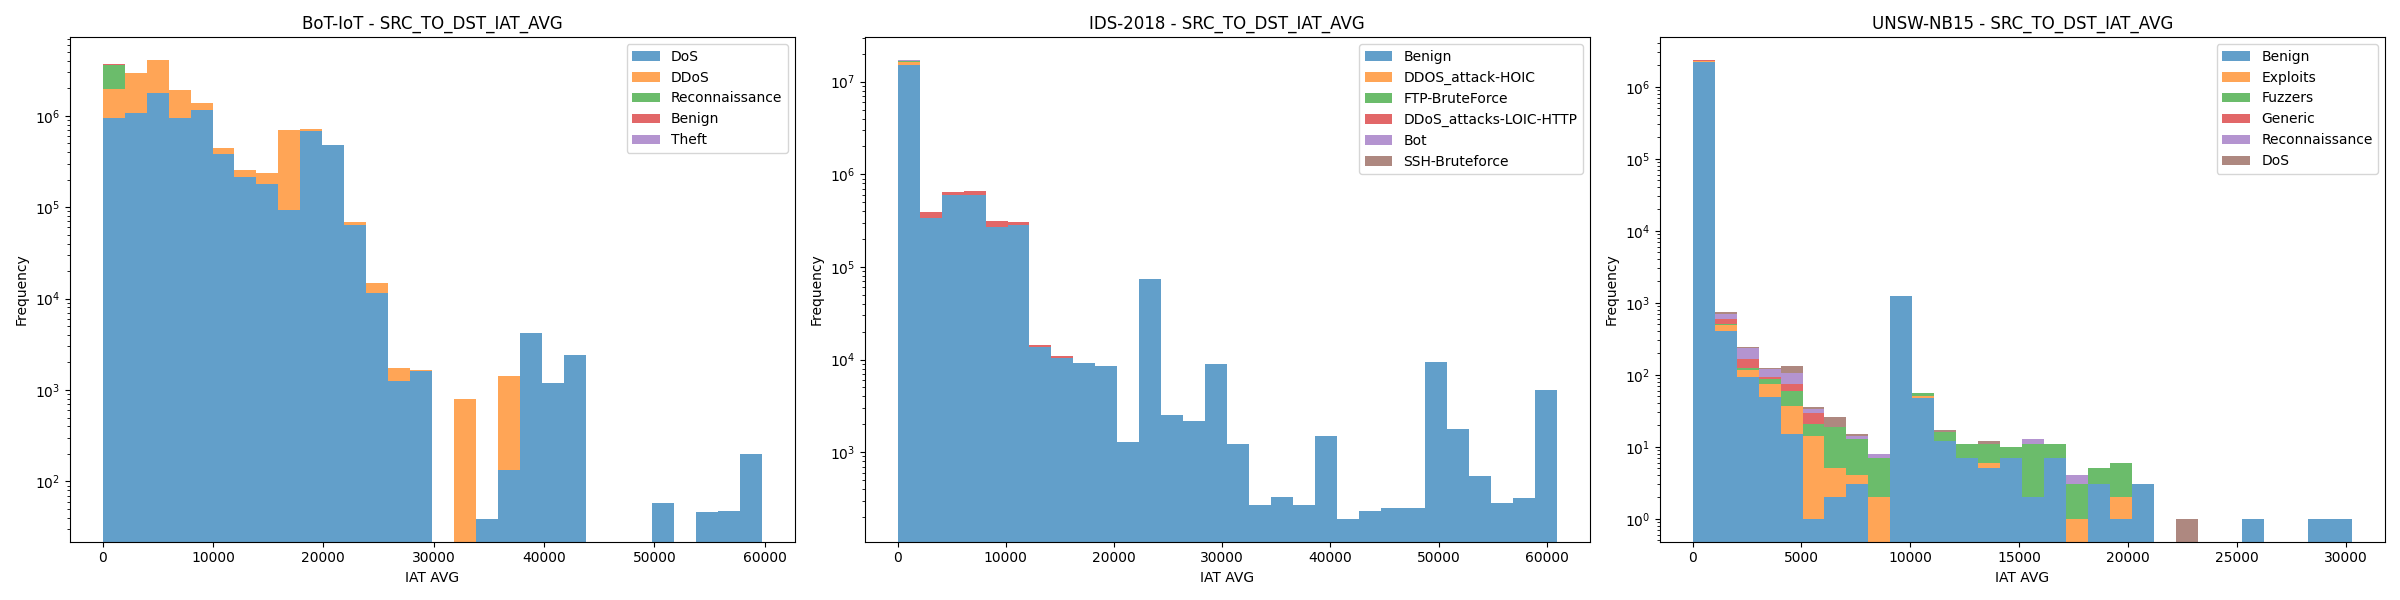
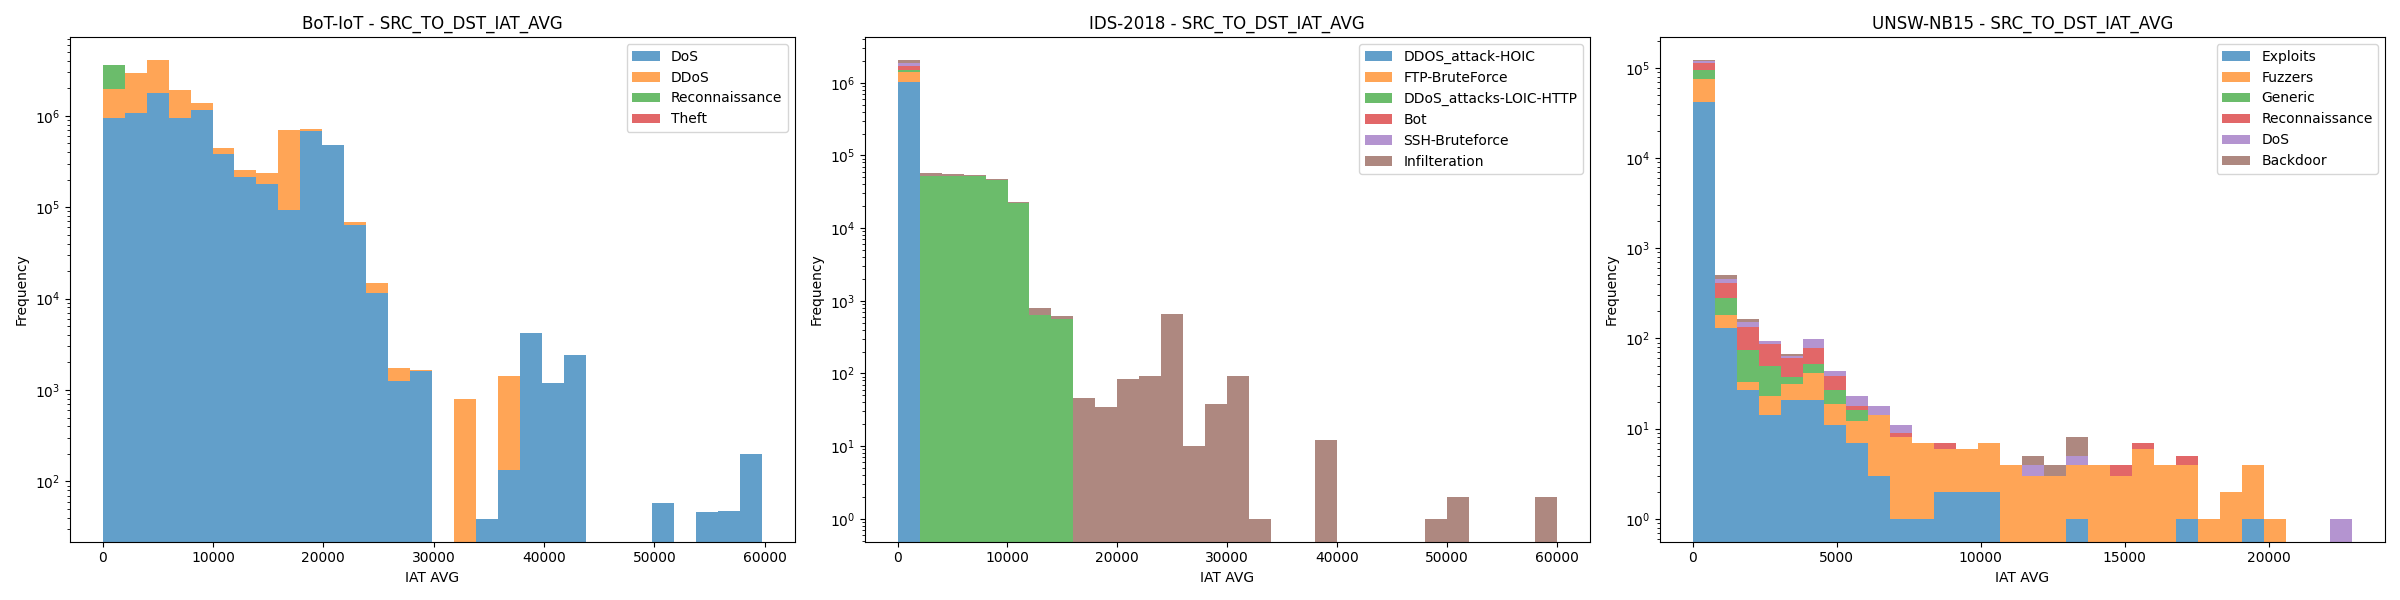
upd

diff --git a/src/eda.py b/src/eda.py
@@ -196,6 +196,50 @@ def visualize_corr_heatmap():
     plt.tight_layout()
     plt.close()
 
+# def visualize_flow_duration_stacked():
+#     """
+#     (1) Flow Duration Stacked Histogram
+#     """
+#     fig, axes = plt.subplots(1, 3, figsize=(24, 6))
+    
+#     for i, name in enumerate(datasets):
+#         print(f"Processing Flow Duration for {name}...")
+#         df = load_dataset(name)
+        
+#         # Calculate Duration in Seconds
+#         # Ensure numeric
+#         start_ms = pd.to_numeric(df['FLOW_START_MILLISECONDS'], errors='coerce')
+#         end_ms = pd.to_numeric(df['FLOW_END_MILLISECONDS'], errors='coerce')
+#         duration_sec = (end_ms - start_ms) / 1000.0
+#         duration_sec = duration_sec.dropna()
+        
+#         # Use top 6 frequent attacks to avoid clutter
+#         top_attacks = df['Attack'].value_counts().nlargest(7).index.tolist()
+#         # remove 'Benign'
+#         if 'Benign' in top_attacks:
+#             top_attacks.remove('Benign')
+        
+#         plot_data = []
+#         labels = []
+#         for atk in top_attacks:
+#             # Filter by attack type and corresponding valid duration indices
+#             subset = duration_sec[df['Attack'] == atk]
+#             if len(subset) > 0:
+#                 plot_data.append(subset)
+#                 labels.append(atk)
+        
+#         axes[i].hist(plot_data, bins=30, stacked=True, label=labels, alpha=0.7)
+#         axes[i].set_title(f'{name} - Flow Duration')
+#         axes[i].set_xlabel('Duration (s)')
+#         axes[i].set_ylabel('Frequency')
+#         axes[i].legend()
+#         # Log scale helps verify short vs long duration visible distribution
+#         axes[i].set_yscale('log') 
+
+#     plt.tight_layout()
+#     plt.savefig('flow_duration_stacked_hist.png')
+#     plt.close()
+
 def visualize_flow_duration_stacked():
     """
     (1) Flow Duration Stacked Histogram
@@ -206,32 +250,30 @@ def visualize_flow_duration_stacked():
         print(f"Processing Flow Duration for {name}...")
         df = load_dataset(name)
         
-        # Calculate Duration in Seconds
-        # Ensure numeric
-        start_ms = pd.to_numeric(df['FLOW_START_MILLISECONDS'], errors='coerce')
-        end_ms = pd.to_numeric(df['FLOW_END_MILLISECONDS'], errors='coerce')
-        duration_sec = (end_ms - start_ms) / 1000.0
-        duration_sec = duration_sec.dropna()
+        # DURATION_IN, DURATION_OUT
+        duration_in_ms = pd.to_numeric(df['DURATION_IN'], errors='coerce').dropna()
+        duration_out_ms = pd.to_numeric(df['DURATION_OUT'], errors='coerce').dropna()
+        # add them
+        duration_data = duration_in_ms.add(duration_out_ms, fill_value=0)
         
-        # Use top 6 frequent attacks to avoid clutter
-        top_attacks = df['Attack'].value_counts().nlargest(6).index.tolist()
+        top_attacks = df['Attack'].value_counts().nlargest(7).index.tolist()
+        if 'Benign' in top_attacks:
+            top_attacks.remove('Benign')
         
         plot_data = []
         labels = []
         for atk in top_attacks:
-            # Filter by attack type and corresponding valid duration indices
-            subset = duration_sec[df['Attack'] == atk]
+            subset = duration_data[df['Attack'] == atk]
             if len(subset) > 0:
                 plot_data.append(subset)
                 labels.append(atk)
         
         axes[i].hist(plot_data, bins=30, stacked=True, label=labels, alpha=0.7)
         axes[i].set_title(f'{name} - Flow Duration')
-        axes[i].set_xlabel('Duration (s)')
+        axes[i].set_xlabel('Duration (ms)')
         axes[i].set_ylabel('Frequency')
         axes[i].legend()
-        # Log scale helps verify short vs long duration visible distribution
-        axes[i].set_yscale('log') 
+        axes[i].set_yscale('log')
 
     plt.tight_layout()
     plt.savefig('flow_duration_stacked_hist.png')
@@ -250,7 +292,9 @@ def visualize_iat_stacked():
         iat_col = 'SRC_TO_DST_IAT_AVG'
         iat_data = pd.to_numeric(df[iat_col], errors='coerce').dropna()
         
-        top_attacks = df['Attack'].value_counts().nlargest(6).index.tolist()
+        top_attacks = df['Attack'].value_counts().nlargest(7).index.tolist()
+        if 'Benign' in top_attacks:
+            top_attacks.remove('Benign')
         
         plot_data = []
         labels = []
@@ -273,43 +317,70 @@ def visualize_iat_stacked():
 
 def visualize_attack_time_series():
     """
-    (3) First 600 mins, Attack Frequency vs Relative Time
+    (3) Attack Frequency vs Relative Time over whole duration
     """
     fig, axes = plt.subplots(1, 3, figsize=(24, 6))
-    
+
     for i, name in enumerate(datasets):
         print(f"Processing Time Series for {name}...")
         df = load_dataset(name)
-        
-        start_ms = pd.to_numeric(df['FLOW_START_MILLISECONDS'], errors='coerce')
+
+        # Explicitly convert to numeric and drop invalid/NaN timestamps
+        start_ms = pd.to_numeric(df['FLOW_START_MILLISECONDS'], errors='coerce').dropna()
+        if start_ms.empty:
+            continue
+
         min_start = start_ms.min()
+        max_start = start_ms.max()
         
+        duration_minutes = (max_start - min_start) / (1000.0 * 60.0)
+        if duration_minutes <= 0:
+            print(f"Warning: Dataset {name} has zero or negative duration.")
+            continue
+
         # Calculate relative time in minutes
+        # Align Attack column with valid start_ms rows
         rel_time_min = (start_ms - min_start) / (1000.0 * 60.0)
-        
-        # Filter first 600 minutes
-        # Create a temp dataframe for processing
+        valid_attacks = df.loc[start_ms.index, 'Attack']
+
+        # Create a temp dataframe
         temp_df = pd.DataFrame({
             'Time_Min': rel_time_min,
-            'Attack': df['Attack']
+            'Attack': valid_attacks
         })
-        temp_df = temp_df[temp_df['Time_Min'] <= 600]
+
+        # Use 100 bins for better resolution
+        num_bins = 100
+        bin_size = duration_minutes / num_bins
         
-        # Binning every 10 minutes
-        temp_df['Time_Bin'] = (temp_df['Time_Min'] // 10) * 10
-        
+        # Calculate integer bin index (0 to num_bins-1)
+        temp_df['Bin_Index'] = (temp_df['Time_Min'] / bin_size).astype(int)
+        # Clip to ensure max value falls into the last bin
+        temp_df['Bin_Index'] = temp_df['Bin_Index'].clip(upper=num_bins - 1)
+
         # Count attacks in each bin
-        # Pivot: Index=Time_Bin, Columns=Attack, Values=Count
-        counts = temp_df.groupby(['Time_Bin', 'Attack']).size().unstack(fill_value=0)
+        # unstack might result in missing bins if no data exists in them
+        counts = temp_df.groupby(['Bin_Index', 'Attack']).size().unstack(fill_value=0)
+
+        # Reindex to ensure we have a continuous time axis (0..99), filling gaps with 0
+        full_idx = range(num_bins)
+        counts = counts.reindex(full_idx, fill_value=0)
+
+        # Map index back to representative time (minutes) for plotting
+        counts.index = [x * bin_size for x in counts.index]
+
+        # Select top attacks to plot lines
+        top_attacks = counts.sum().nlargest(7).index
+        if 'Benign' in top_attacks:
+            top_attacks = top_attacks.drop('Benign')
         
-        # Select top attacks to plot lines, group others? or just plot top N
-        top_attacks = counts.sum().nlargest(6).index
-        counts_top = counts[top_attacks]
+        if not top_attacks.empty:
+            counts_top = counts[top_attacks]
+            counts_top.plot(ax=axes[i], marker='.', markersize=2, linewidth=1)
         
-        counts_top.plot(ax=axes[i], marker='o', markersize=3)
-        axes[i].set_title(f'{name} - Attack Freq (First 600m)')
+        axes[i].set_title(f'{name} - Attack Freq vs Time')
         axes[i].set_xlabel('Time (minutes from start)')
-        axes[i].set_ylabel('Frequency per 10 min')
+        axes[i].set_ylabel('Attack Frequency (per bin)')
         axes[i].legend(title='Attack Type')
         axes[i].grid(True, linestyle='--', alpha=0.5)
 
@@ -323,7 +394,6 @@ if __name__ == '__main__':
     # visualize_histogram()
     # visualize_corr_heatmap()
     
-    # New visualizations
     visualize_flow_duration_stacked()
     visualize_iat_stacked()
     visualize_attack_time_series()